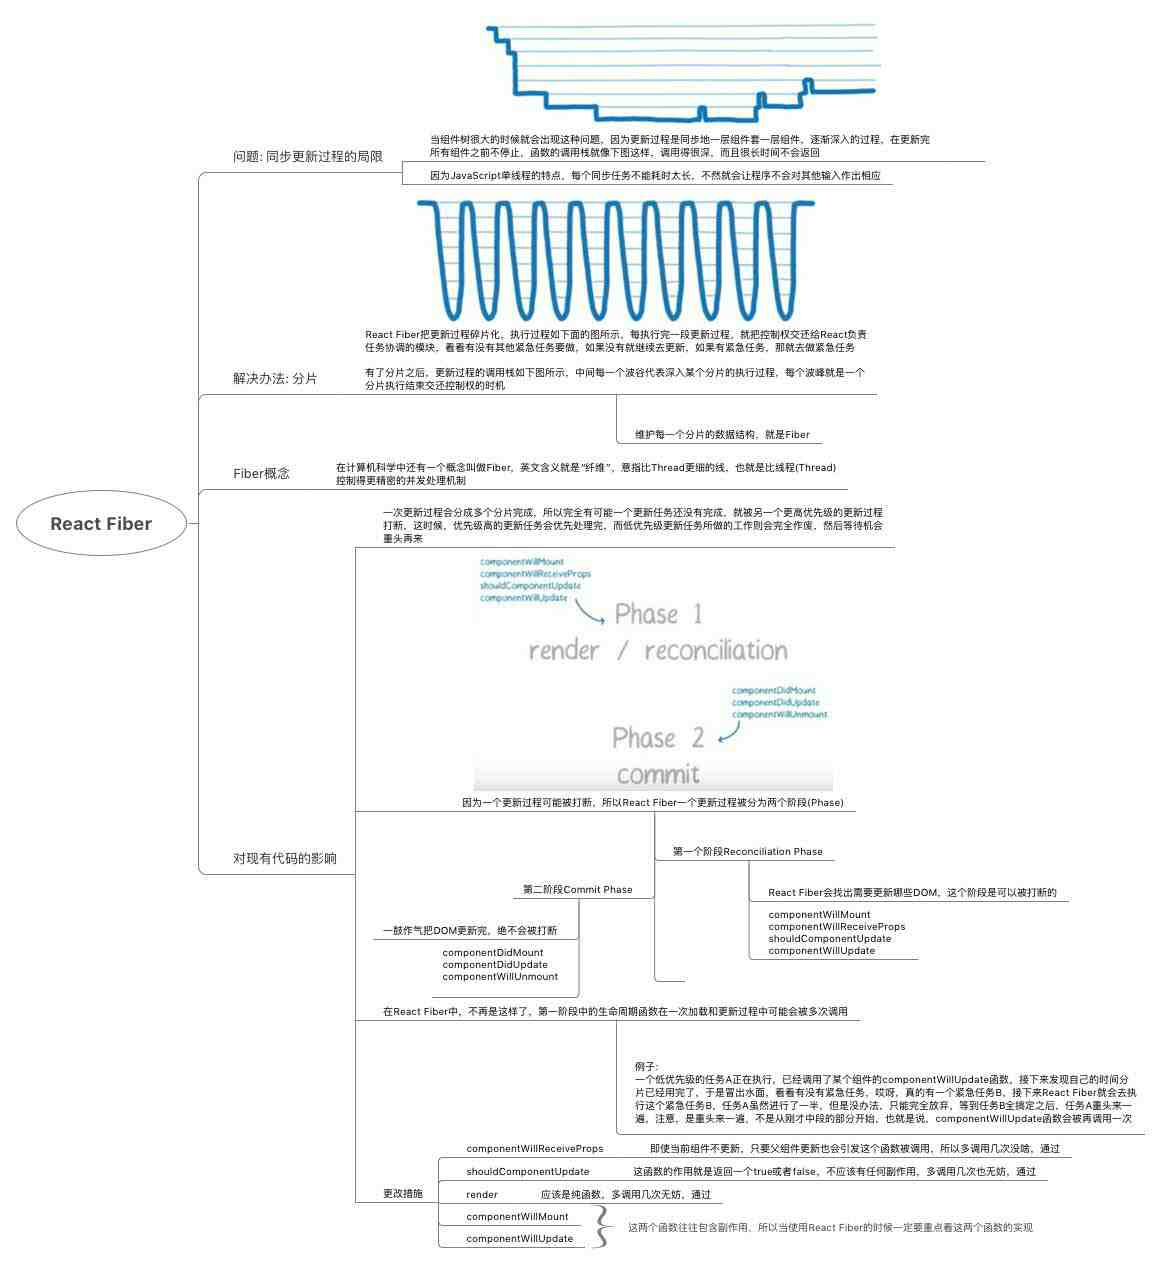
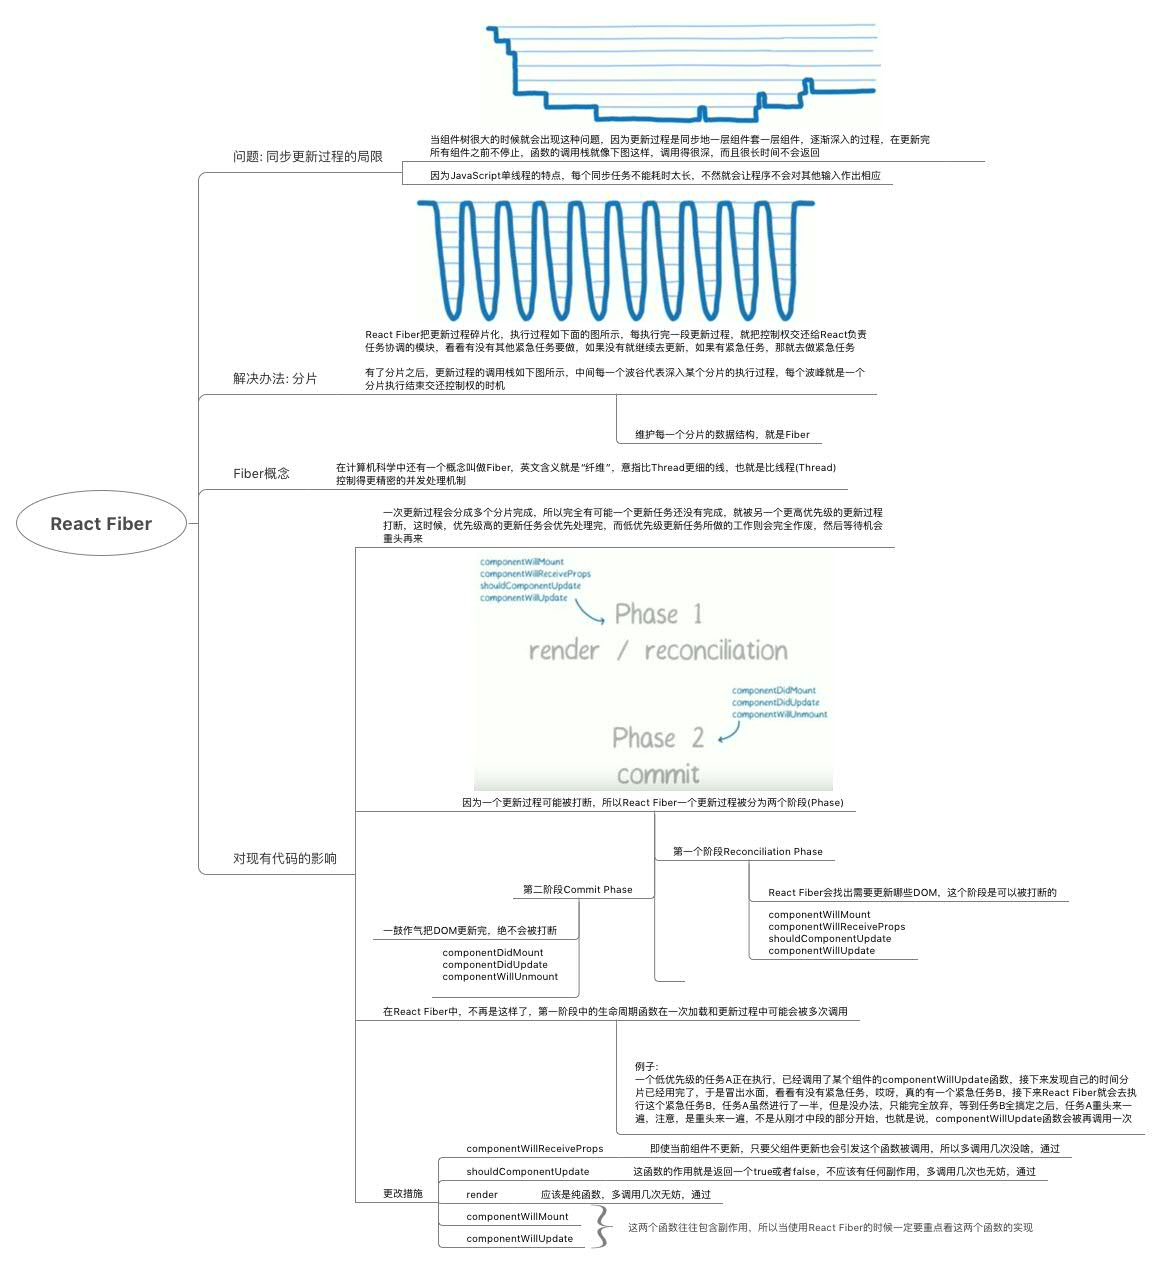
docs(学习笔记): 图片修复

diff --git a/README.md b/README.md
@@ -191,7 +191,7 @@
 + [排列组合]
 + [概率]
 + [约瑟夫环]
-+ **leetCode经典编程题**: /  
++ **leetCode经典编程题**:  
   [递归分析 <-> 回溯 <-> 全排列 <-> 组合](./doc/对比归纳/39%20递归分析%20%3C-%3E%20回溯%20%3C-%3E%20全排列%20%3C-%3E%20组合.md) /  
   [动态规划 <-> 0-1背包]()  
   
@@ -642,7 +642,6 @@
   [props <-> state <-> setState](./doc/对比归纳/25%20react的state与props.md) /  
   [智能组件 <-> 木偶组件 <-> 受控组件 <-> 非受控组件 <-> 无状态组件 <-> 状态组件](./doc/对比归纳/26%20智能组件%20%3C-%3E%20木偶组件%20%3C-%3E%20受控组件%20%3C-%3E%20非受控组件.md) /  
   [直出 <-> 同构 <-> 数据直出 <-> ssr](./doc/对比归纳/31%20直出%20%3C-%3E%20同构%20%3C-%3E%20数据直出%20%3C-%3E%20ssr.md) /  
-  [React核心原理 <-> Redux核心原理]
 + **后端系列**:
   [SSE <-> websocket <-> http2.0]()
 + **app开发模式**:  

diff --git a/doc/对比归纳/31 直出 <-> 同构 <-> 数据直出 <-> ssr.md b/doc/对比归纳/31 直出 <-> 同构 <-> 数据直出 <-> ssr.md
@@ -3,4 +3,4 @@
 > + [直出](https://garvenzhang.github.io/2018/02/09/%E7%9B%B4%E5%87%BA/)
 > + [xmind](同构.xmind)
 
-![同构.webp](同构.webp)
+![同构.png](同构.png)

diff --git a/doc/对比归纳/28 react fiber.md b/doc/对比归纳/28 react fiber.md
@@ -2,4 +2,4 @@
 
 > [xmind](React%20Fiber.xmind)
 
-![React Fiber.jpg](React Fiber.jpg)
+![React Fiber.jpg](React%20Fiber.jpg)
